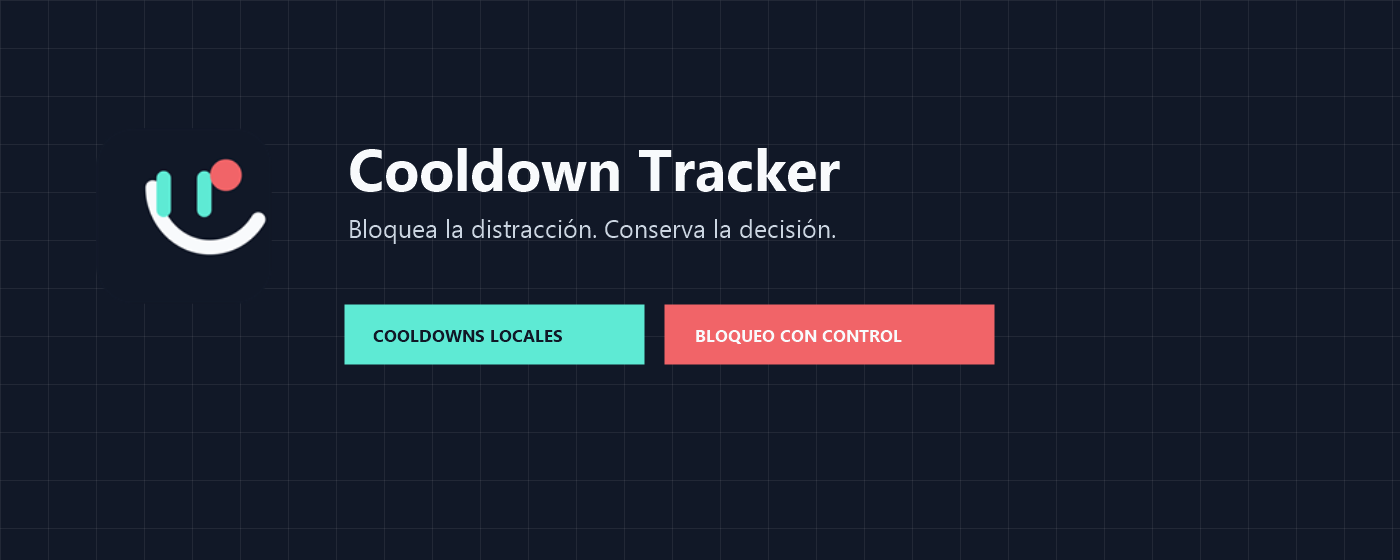
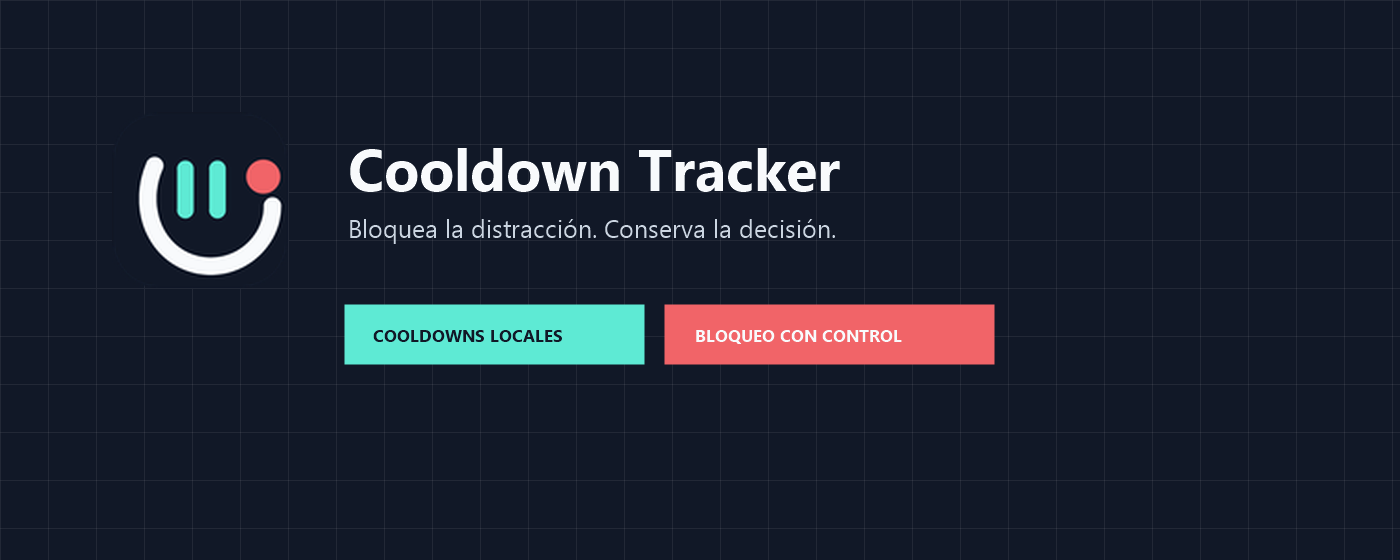
Actualiza identidad visual y seguridad de dependencias

Changed region(s): [[0.0921, 0.2732, 0.215, 0.5161]]

diff --git a/extension/blocked.html b/extension/blocked.html
@@ -10,10 +10,10 @@
     <main>
       <div class="mark" aria-hidden="true">
         <svg viewBox="0 0 40 40" fill="none">
-          <rect width="40" height="40" rx="9" fill="#111827" />
-          <path d="M13 13.5a10 10 0 1014 0" stroke="#f8fafc" stroke-width="3" stroke-linecap="round" />
-          <path d="M15.5 11.5v7M24.5 11.5v7" stroke="#5eead4" stroke-width="3" stroke-linecap="round" />
-          <circle cx="29.5" cy="10.5" r="3.5" fill="#f16468" />
+          <rect x="5" y="5" width="30" height="30" rx="8.125" fill="#111827" />
+          <path d="M12.27 14.14C10 19.38 11.02 25.47 15.16 28.91C19.06 32.11 24.77 32.03 28.59 28.83C31.02 26.8 32.34 23.98 32.34 21.02" stroke="#f8fafc" stroke-width="2.97" stroke-linecap="round" />
+          <path d="M17.5 14.69V21.72M22.97 14.69V21.72" stroke="#5eead4" stroke-width="2.81" stroke-linecap="round" />
+          <circle cx="30.78" cy="16.02" r="2.89" fill="#f16468" />
         </svg>
       </div>
       <p id="eyebrow" class="eyebrow"></p>

diff --git a/src/App.jsx b/src/App.jsx
@@ -830,10 +830,10 @@ function ShieldIcon() {
 function BrandMark() {
   return (
     <svg className="h-full w-full" viewBox="0 0 40 40" fill="none" aria-hidden="true">
-      <rect width="40" height="40" rx="9" fill="#111827" />
-      <path d="M13 13.5a10 10 0 1014 0" stroke="#F8FAFC" strokeWidth="3" strokeLinecap="round" />
-      <path d="M15.5 11.5v7M24.5 11.5v7" stroke="#5EEAD4" strokeWidth="3" strokeLinecap="round" />
-      <circle cx="29.5" cy="10.5" r="3.5" fill="#F16468" />
+      <rect x="5" y="5" width="30" height="30" rx="8.125" fill="#111827" />
+      <path d="M12.27 14.14C10 19.38 11.02 25.47 15.16 28.91C19.06 32.11 24.77 32.03 28.59 28.83C31.02 26.8 32.34 23.98 32.34 21.02" stroke="#F8FAFC" strokeWidth="2.97" strokeLinecap="round" />
+      <path d="M17.5 14.69V21.72M22.97 14.69V21.72" stroke="#5EEAD4" strokeWidth="2.81" strokeLinecap="round" />
+      <circle cx="30.78" cy="16.02" r="2.89" fill="#F16468" />
     </svg>
   );
 }
